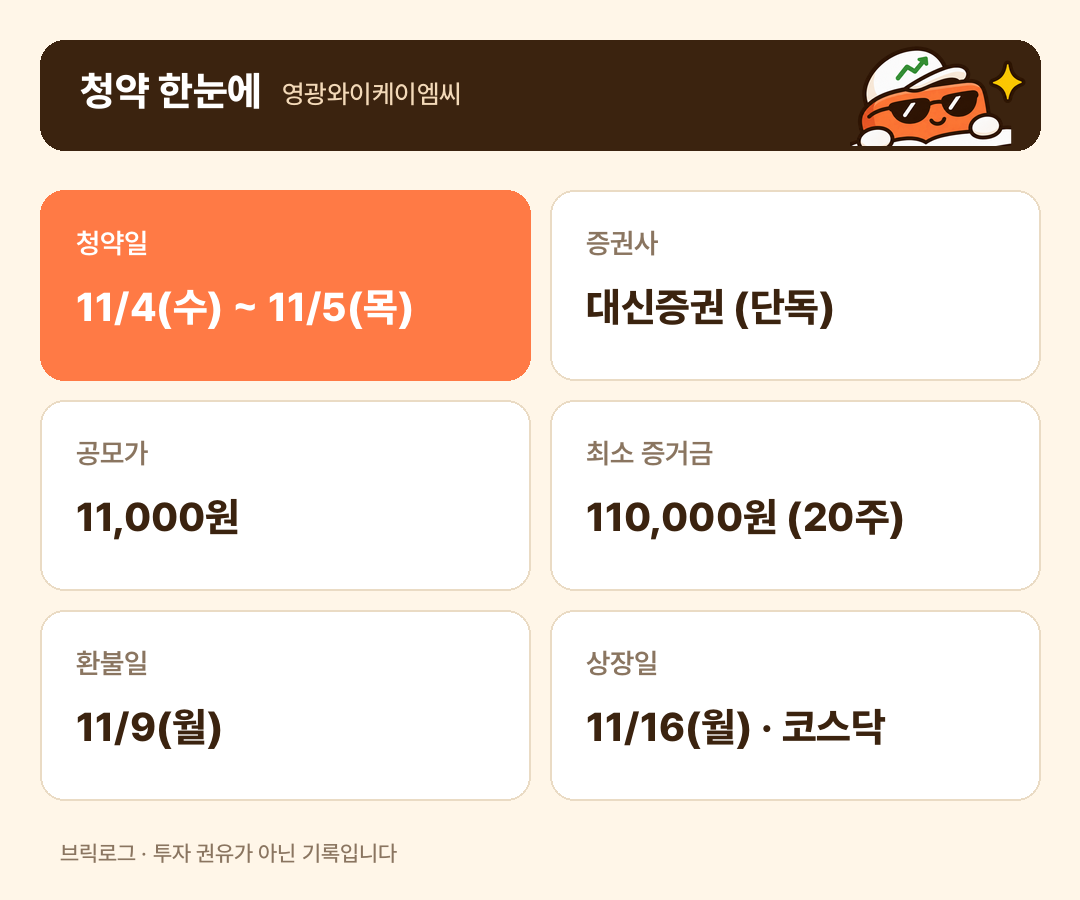
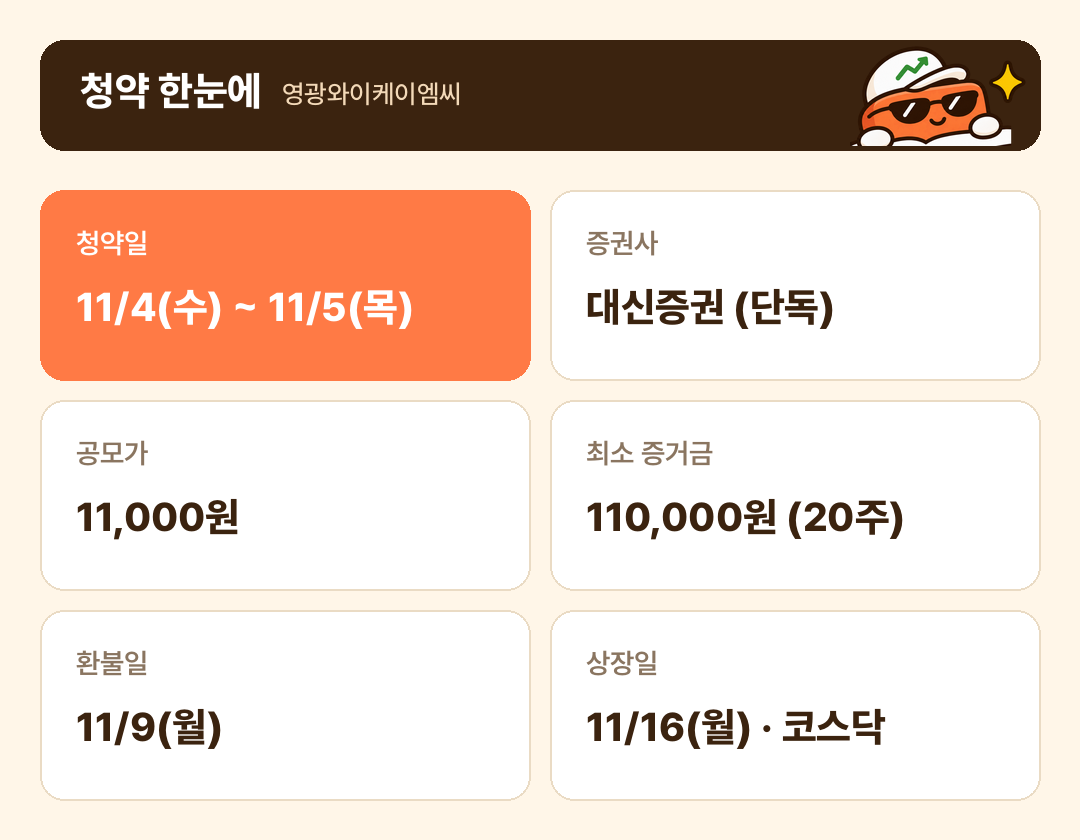
Remove card footer and update YKMC market grade
Drop the disclaimer line from all cards. Show the market mood from
5- and 20-trading-day trends instead of one day's move, which moves
the YKMC market grade from B to C. Record the new post layout rules.

diff --git a/scripts/make_cards.py b/scripts/make_cards.py
@@ -64,10 +64,6 @@ def header(d, img, title, name, W):
     paste_char(img, 100, (W - 230, 46))
 
 
-def footer(d, H):
-    d.text((60, H - 60), "브릭로그 · 투자 권유가 아닌 기록입니다", font=F("Medium", 22), fill=MUTED)
-
-
 def fit(d, text, weight, size, max_w):
     while size > 20 and d.textlength(text, font=F(weight, size)) > max_w:
         size -= 2
@@ -75,7 +71,7 @@ def fit(d, text, weight, size, max_w):
 
 
 def brick_check(c, out):
-    W, H = 1080, 1080
+    W, H = 1080, 1050
     img = Image.new("RGBA", (W, H), BEIGE); d = ImageDraw.Draw(img)
     header(d, img, "BRICK CHECK", c["name"], W)
     y = 190
@@ -94,12 +90,11 @@ def brick_check(c, out):
     msg = c["one_liner"]; fs = fit(d, msg, "ExtraBold", 36, W - 140)
     tw = d.textlength(msg, font=F("ExtraBold", fs))
     d.text(((W - tw) / 2, y + 27), msg, font=F("ExtraBold", fs), fill=WHITE)
-    footer(d, H)
     img.convert("RGB").save(f"{out}/card1_brick_check.png")
 
 
 def ipo_info(c, out):
-    W, H = 1080, 900
+    W, H = 1080, 840
     img = Image.new("RGBA", (W, H), BEIGE); d = ImageDraw.Draw(img)
     header(d, img, "청약 한눈에", c["name"], W)
     x0, y0, cw, ch, gap = 40, 190, 490, 190, 20
@@ -111,12 +106,11 @@ def ipo_info(c, out):
         d.text((cx + 36, cy + 36), it["label"], font=F("SemiBold", 28), fill=WHITE if hot else MUTED)
         fs = fit(d, it["value"], "ExtraBold", 40, cw - 72)
         d.text((cx + 36, cy + 92), it["value"], font=F("ExtraBold", fs), fill=WHITE if hot else BROWN)
-    footer(d, H)
     img.convert("RGB").save(f"{out}/card2_ipo_info.png")
 
 
 def float_chart(c, out):
-    W, H = 1080, 900
+    W, H = 1080, 870
     img = Image.new("RGBA", (W, H), BEIGE); d = ImageDraw.Draw(img)
     header(d, img, "풀리는 물량", c["name"], W)
     data = c["float"]["steps"]
@@ -138,7 +132,6 @@ def float_chart(c, out):
         d.text((x + bw / 2 - tw / 2, base + 14), lab, font=F("Medium", 21), fill=MUTED)
     cap = c["float"]["caption"]; fs = fit(d, cap, "SemiBold", 26, W - 140)
     d.text((70, 808), cap, font=F("SemiBold", fs), fill=BROWN)
-    footer(d, H + 10)
     img.convert("RGB").save(f"{out}/card3_float.png")
 
 

diff --git a/docs/POST_TEMPLATE.md b/docs/POST_TEMPLATE.md
@@ -27,6 +27,12 @@
 14. 면책 문구 + 출처 한 줄 + 해시태그 10개 (종목명, 종목명공모주, 종목명청약, 공모주청약, 공모주, 섹터공모주, 증권사, N월공모주, 따따블, 브릭로그)
 15. (원고 전용, 발행본에서 제거) 🔍 검수 메모: 확인할 것 체크리스트 + 수치별 출처 링크 + 계산식
 
+## 2026-11-05 지운 피드백 (위 순서보다 우선)
+- 섹션 구성: **이미지 → 짧은 글 → 표(부가 설명) → 추가 글**. 이미지에 있는 항목은 표에서 뺀다. 같은 숫자를 표 두 개에 넣지 않는다.
+- 주변 공모주 일정은 **발행 직전 정정 공시를 다시 확인**한다. 월초 정리 글은 오래된 자료다. 일정이 밀린 종목이 없는지 최근 기사 2곳 이상으로 대조한다.
+- 시황은 하루 등락이 아니라 **코스피·코스닥 5거래일·20거래일 흐름**으로 본다. 카드에는 숫자 대신 분위기를 적고, 본문에 숫자와 최근 상장주 성적을 쓴다.
+- 지운이 자료를 주지 않아도 이 글 수준의 깊이를 낸다. 재무제표·기간별 확약·청약한도·고객사·수주잔고·이전 상장 시도를 DART와 기사에서 직접 찾는다.
+
 ## BRICK CHECK 등급 기준
 | 기준 | A | B | C |
 |---|---|---|---|
@@ -39,7 +45,8 @@
 - 상장 후 결과 10~20건이 쌓이면 기준을 다시 점검한다.
 
 ## 말투
-- "~예요/~거든요" 짧게 끊기, 핵심 판단만 확정형. 한 문단 2줄 이내.
+- 짧게 끊되 어미를 섞는다(~습니다/~더라고요/~거든요/~네요/~죠). "~해요, 좋아요"가 이어지면 AI처럼 읽힌다. 한 문단 2줄 이내.
+- 대구("A는 많았지만 B는 적었어요", "A가 아니라 B") 남발 금지.
 - 숫자는 반드시 해석과 함께 ("1,163대 1 → 관심은 최상위").
 - 지표 정확히(PER = 시총 ÷ 순이익). 단순 연율화는 한계를 적는다.
 

diff --git a/docs/BRAND.md b/docs/BRAND.md
@@ -34,9 +34,9 @@
 | 파일 | 크기 | 내용 | 본문 위치 |
 |---|---|---|---|
 | thumbnail.png | 1080×1080 | 공모주 태그, 날짜, 종목명(최대 크기), '청약할까? 말까?', 핵심 배지, 수치 3개, 캐릭터 | 대표 이미지 |
-| card1_brick_check.png | 1080×1080 | 5개 기준 A/B/C 원형 등급 + 오렌지 한 줄 결론 | 30초 체크포인트 아래, BRICK CHECK 섹션(재사용) |
-| card2_ipo_info.png | 1080×900 | 청약일(오렌지 강조), 증권사, 공모가, 최소 증거금, 환불일, 상장일 | 한눈에 보기 ① |
-| card3_float.png | 1080×900 | 기간별 유통 가능 비율 막대, 첫 막대 오렌지 | 한눈에 보기 ② |
+| card1_brick_check.png | 1080×1050 | 5개 기준 A/B/C 원형 등급 + 오렌지 한 줄 결론 (시황 칸은 숫자 대신 5·20거래일 분위기) | 30초 체크포인트 아래, BRICK CHECK 섹션(재사용) |
+| card2_ipo_info.png | 1080×840 | 청약일(오렌지 강조), 증권사, 공모가, 최소 증거금, 환불일, 상장일 | 한눈에 보기 ① |
+| card3_float.png | 1080×870 | 기간별 유통 가능 비율 막대, 첫 막대 오렌지 | 한눈에 보기 ② |
 
 - 추가 후보(지운 승인 전): '공모가 체크' 카드(비교기업 PER 막대, 이상치 제외 적정가). 차별화 포인트라 가치 있음.
 - 4장이면 충분하다는 게 현재 결론. 많으면 AI 콘텐츠처럼 보인다.
